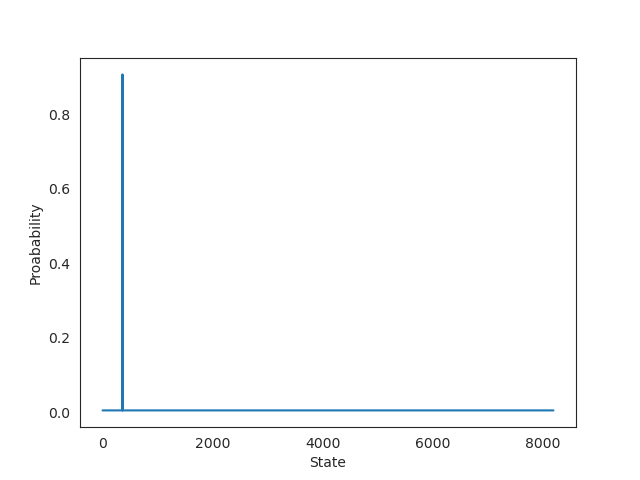
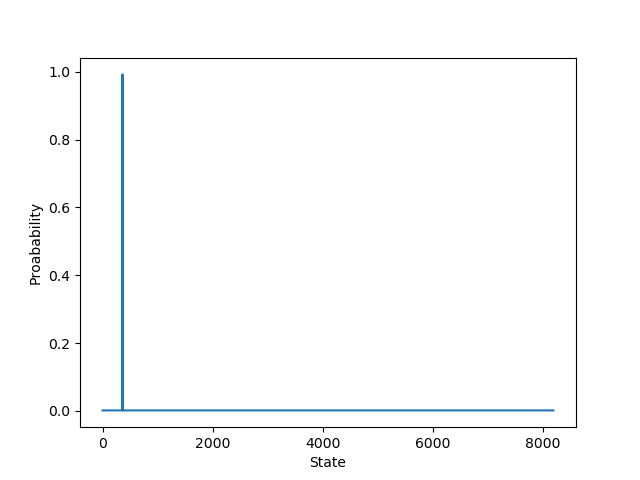
some changes

diff --git a/main.py b/main.py
@@ -20,7 +20,7 @@ def main():
 
     for i in tqdm(range(100)):
         grover_iterate()
-        if np.max(register.basisSpace.real) > 0.9:
+        if np.max(register.basisSpace.real) > 0.99:
             break
     #%%
     print("Found word: '{}' at position {} in the dictionary of five words".format(all_5_letter_words[np.argmax(register.basisSpace.real)],np.argmax(register.basisSpace.real)))
@@ -28,11 +28,11 @@ def main():
     #%%
 
 if __name__ == '__main__':
-    pr = cProfile.Profile()
-    pr.enable()
+    # pr = cProfile.Profile()
+    # pr.enable()
 
     main()
 
-    pr.disable()
-    pr.print_stats(sort='time')
+    # pr.disable()
+    # pr.print_stats(sort='time')
   

diff --git a/circuitElements/qRegister.py b/circuitElements/qRegister.py
@@ -3,8 +3,8 @@ from circuitElements.qGate import SingleQbitGate,TwoQbitGate,MultiQbitGate
 import numpy as np
 from art import *
 import matplotlib.pyplot as plt
-import seaborn as sns
-sns.set_style("white")
+# import seaborn as sns
+# sns.set_style("white")
 isq2 = 1/np.sqrt(2) # 1/sqrt(2)
 
 
